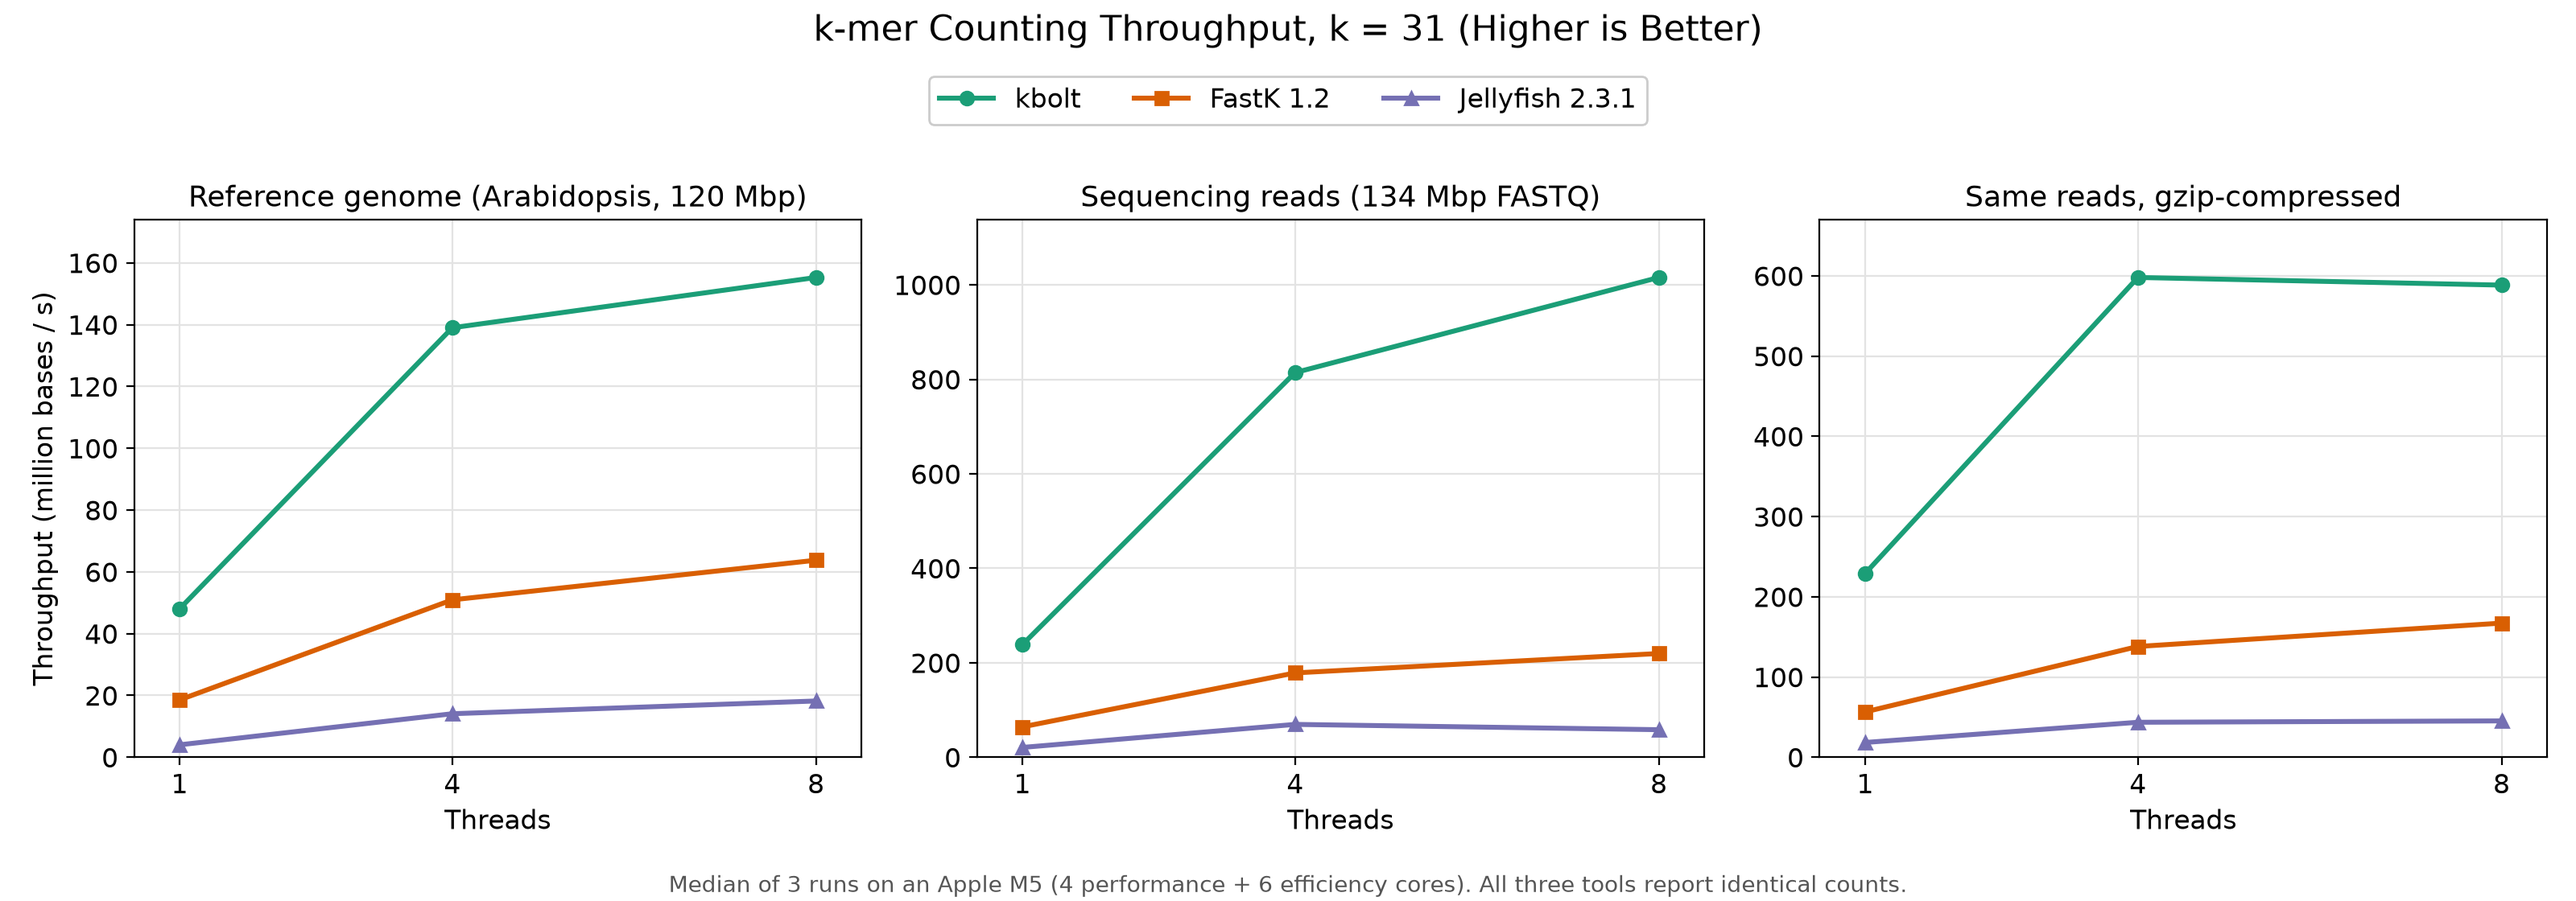
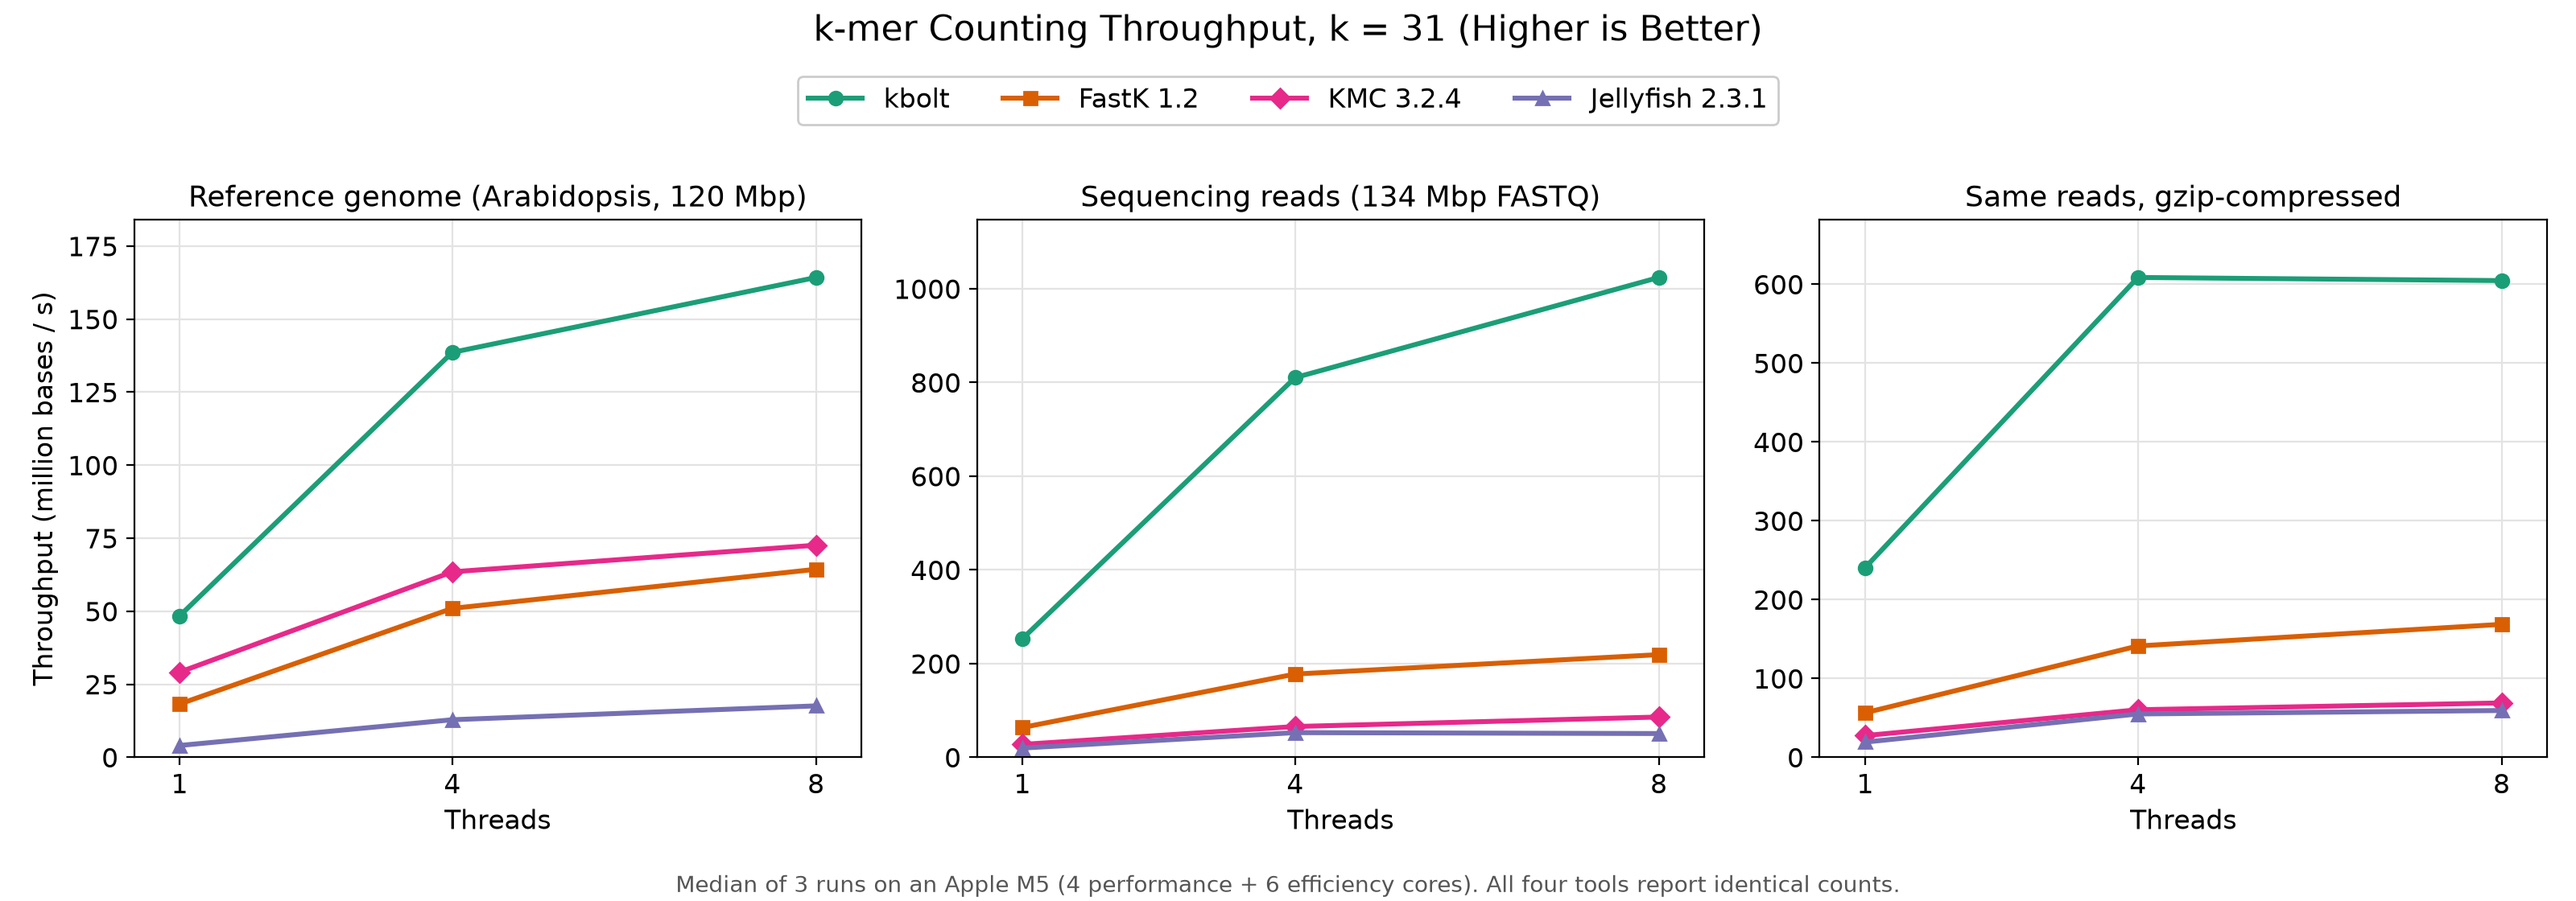
Add KMC 3 to the benchmark comparison
Run KMC 3.2.4 alongside FastK and Jellyfish in benches/compare.py, with
-ci1 and -cs4294967295 so it keeps singletons and exact counts like the
other tools, and draw it on the chart. KMC is not in Homebrew, so the
harness expects a release unpacked under target/compare/tools/kmc (--kmc
overrides the path).

Rerun all four tools and update the README table and chart. KMC's counts
match kbolt's: full sorted diffs for E. coli and the sampled reads, the
complete count histogram for Arabidopsis.

The README notes that these inputs are small and fit in memory, which is
not the case KMC is built for.

diff --git a/benches/compare.py b/benches/compare.py
@@ -1,5 +1,5 @@
 #!/usr/bin/env python3
-"""Compare kbolt with Jellyfish and FastK on identical exact-counting work.
+"""Compare kbolt with Jellyfish, FastK and KMC on identical exact-counting work.
 
 All tools count canonical 31-mers, keep k-mers seen once, and report exact
 counts; their dumped tables were checked against kbolt before timing (full
@@ -16,6 +16,13 @@ Jellyfish needs its hash size up front; it gets twice the true distinct count
 gzip, so it decompresses through its own `-g` generator (gzcat), whose CPU time
 it accumulates. FastK requires .fa/.fq names, so inputs are symlinks under
 target/compare/inputs, created on each run.
+
+KMC is not in Homebrew: unpack a release from
+https://github.com/refresh-bio/KMC/releases into target/compare/tools/kmc (or
+pass --kmc). It runs with -ci1 and -cs4294967295, because by default it drops
+k-mers seen once and caps counts at 255, and with its default 12 GB memory
+limit and disk bins under target/compare/tmp. Its -t is the total thread
+count, while kbolt's -t excludes its input reader, so compare CPU time too.
 """
 
 import argparse
@@ -48,6 +55,9 @@ DATASETS = {
 }
 
 
+TOOLS = ["kbolt", "kbolt-tsv", "jellyfish", "fastk", "kmc"]
+
+
 def digest(path):
     result = hashlib.sha256()
     with Path(path).open("rb") as source:
@@ -64,7 +74,7 @@ def bases(name):
     return SOURCES["sampled.fq"].stat().st_size // 307 * 150
 
 
-def count_command(tool, name, threads, kbolt):
+def count_command(tool, name, threads, kbolt, kmc):
     file, size = DATASETS[name]
     source = str(INPUTS / file)
     if tool == "kbolt":
@@ -83,16 +93,23 @@ def count_command(tool, name, threads, kbolt):
     if tool == "fastk":
         return ["FastK", "-k31", "-t1", f"-T{threads}", f"-P{TMP}", f"-N{OUT / (name + '_fk')}",
                 source]
+    if tool == "kmc":
+        kind = "-fm" if file.endswith(".fa") else "-fq"
+        return [kmc, "-k31", "-ci1", "-cs4294967295", kind, f"-t{threads}", "-hp",
+                source, str(OUT / f"{name}_kmc"), str(TMP)]
     raise ValueError(tool)
 
 
-def dump_command(tool, name, kbolt):
+def dump_command(tool, name, kbolt, kmc):
     if tool == "kbolt":
         return [kbolt, "dump", str(OUT / f"{name}.kbolt")]
     if tool == "jellyfish":
         return ["jellyfish", "dump", "-c", "-t", str(OUT / f"{name}.jf")]
     if tool == "fastk":
         return ["Tabex", "-A", str(OUT / f"{name}_fk.ktab")]
+    if tool == "kmc":
+        tools = str(Path(kmc).with_name("kmc_tools"))
+        return [tools, "-t1", "-hp", "transform", str(OUT / f"{name}_kmc"), "dump", "/dev/null"]
     raise ValueError(tool)
 
 
@@ -127,39 +144,48 @@ def main():
     parser.add_argument("--kbolt", type=Path, default=ROOT / "target/release/kbolt")
     parser.add_argument("--datasets", nargs="+", default=list(DATASETS), choices=list(DATASETS))
     parser.add_argument("--threads", nargs="+", type=positive, default=[1, 4, 8])
-    parser.add_argument("--tools", nargs="+", default=["kbolt", "kbolt-tsv", "jellyfish", "fastk"])
+    parser.add_argument("--kmc", type=Path, default=WORK / "tools/kmc/bin/kmc")
+    parser.add_argument("--tools", nargs="+", default=TOOLS, choices=TOOLS)
     parser.add_argument("--runs", type=positive, default=3)
     parser.add_argument("--warmup", type=int, default=1)
     parser.add_argument("--output", type=Path, default=WORK / "results.json")
     args = parser.parse_args()
     setup()
     kbolt = str(args.kbolt.resolve())
+    kmc = str(args.kmc.resolve())
     versions = {
         "kbolt": {"path": kbolt, "sha256": digest(kbolt),
                   "git": subprocess.check_output(["git", "rev-parse", "HEAD"], cwd=ROOT, text=True).strip()},
-        "jellyfish": subprocess.check_output(["jellyfish", "--version"], text=True).strip(),
-        "fastk": subprocess.check_output(["brew", "list", "--versions", "fastk"], text=True).strip(),
     }
+    if "jellyfish" in args.tools:
+        versions["jellyfish"] = subprocess.check_output(["jellyfish", "--version"], text=True).strip()
+    if "fastk" in args.tools:
+        versions["fastk"] = subprocess.check_output(["brew", "list", "--versions", "fastk"], text=True).strip()
+    if "kmc" in args.tools:
+        # Without arguments KMC prints its usage, starting with the version line.
+        usage = subprocess.run([kmc], capture_output=True, text=True).stdout
+        versions["kmc"] = {"version": usage.splitlines()[0].strip(), "sha256": digest(kmc)}
     report = {
         "timestamp_utc": datetime.now(timezone.utc).isoformat(),
         "platform": platform.platform(),
         "versions": versions,
         "method": "warm cache; fresh processes; rotated rounds; native tables written to "
-                  "target/compare/out; text to /dev/null; Jellyfish -s = 2x distinct",
+                  "target/compare/out; text to /dev/null; Jellyfish -s = 2x distinct; "
+                  "KMC -ci1 -cs4294967295 with default memory and disk bins",
         "count": {},
         "dump": {},
     }
     for name in args.datasets:
         size = bases(name)
         print(f"== {name} ({size:,} bases)", flush=True)
-        cases = [(f"{tool}/t{threads}", count_command(tool, name, threads, kbolt))
+        cases = [(f"{tool}/t{threads}", count_command(tool, name, threads, kbolt, kmc))
                  for threads in args.threads for tool in args.tools]
         results = run_cases(cases, args.runs, args.warmup)
         report["count"][name] = {
             label: {"command": command, "runs": results[label], "summary": summarize(results[label], size)}
             for label, command in cases
         }
-        dumps = [(tool, dump_command(tool, name, kbolt))
+        dumps = [(tool, dump_command(tool, name, kbolt, kmc))
                  for tool in args.tools if tool != "kbolt-tsv"]
         results = run_cases(dumps, args.runs, args.warmup)
         report["dump"][name] = {

diff --git a/benches/plot_compare.py b/benches/plot_compare.py
@@ -17,6 +17,7 @@ ROOT = Path(__file__).resolve().parent.parent
 TOOLS = [
     ("kbolt", "kbolt", "#1b9e77", "o"),
     ("fastk", "FastK 1.2", "#d95f02", "s"),
+    ("kmc", "KMC 3.2.4", "#e7298a", "D"),
     ("jellyfish", "Jellyfish 2.3.1", "#7570b3", "^"),
 ]
 PANELS = [
@@ -57,7 +58,7 @@ def main():
                frameon=True, framealpha=1, edgecolor="#cccccc")
     fig.suptitle("k-mer Counting Throughput, k = 31 (Higher is Better)", fontsize=16, y=0.985)
     fig.text(0.5, 0.01, "Median of 3 runs on an Apple M5 (4 performance + 6 efficiency cores). "
-             "All three tools report identical counts.", ha="center", fontsize=10, color="#555555")
+             "All four tools report identical counts.", ha="center", fontsize=10, color="#555555")
     fig.tight_layout(rect=(0, 0.04, 1, 0.9))
     args.output.parent.mkdir(parents=True, exist_ok=True)
     fig.savefig(args.output, dpi=200, facecolor="white")

diff --git a/README.md b/README.md
@@ -7,23 +7,27 @@ and you can use it from the command line or as a Rust library.
 
 It's built to be fast on an ordinary machine. Everything stays in memory, so it
 works best when the distinct k-mers fit in RAM. Here's how it compares with
-FastK and Jellyfish, two widely used exact counters, on the same inputs:
+FastK, KMC and Jellyfish, three widely used exact counters, on the same inputs:
 
-![k-mer counting throughput of kbolt, FastK and Jellyfish at 1, 4 and 8 threads](docs/benchmark.png)
+![k-mer counting throughput of kbolt, FastK, KMC and Jellyfish at 1, 4 and 8 threads](docs/benchmark.png)
 
 Wall time to count canonical 31-mers (median of 3 runs, Apple M5):
 
-| Workload | Threads | kbolt | FastK | Jellyfish |
-|---|---:|---:|---:|---:|
-| Arabidopsis genome, 120 Mbp | 1 | **2.49 s** | 6.45 s | 29.8 s |
-|  | 8 | **0.77 s** | 1.88 s | 6.57 s |
-| Reads, 134 Mbp FASTQ | 1 | **0.56 s** | 2.09 s | 6.46 s |
-|  | 8 | **0.13 s** | 0.61 s | 2.30 s |
-| Same reads, gzip | 1 | **0.59 s** | 2.37 s | 7.29 s |
-|  | 8 | **0.23 s** | 0.80 s | 2.96 s |
+| Workload | Threads | kbolt | FastK | KMC | Jellyfish |
+|---|---:|---:|---:|---:|---:|
+| Arabidopsis genome, 120 Mbp | 1 | **2.47 s** | 6.57 s | 4.11 s | 29.7 s |
+|  | 8 | **0.73 s** | 1.86 s | 1.65 s | 6.81 s |
+| Reads, 134 Mbp FASTQ | 1 | **0.53 s** | 2.12 s | 4.90 s | 6.85 s |
+|  | 8 | **0.13 s** | 0.61 s | 1.56 s | 2.65 s |
+| Same reads, gzip | 1 | **0.56 s** | 2.38 s | 4.89 s | 6.98 s |
+|  | 8 | **0.22 s** | 0.80 s | 1.95 s | 2.26 s |
 
-kbolt is 2.4–4.6× faster than FastK and 8.5–17× faster than Jellyfish here,
-and all three report identical counts.
+kbolt is 2.6–4.7× faster than FastK, 1.7–12× faster than KMC and 9–20× faster
+than Jellyfish here, and all four report identical counts.
+
+These inputs are small. KMC is built for read sets larger than memory, which
+it splits into bins on disk, and it pays fixed costs here that matter less at
+that scale; kbolt cannot count those inputs at all.
 
 ## Usage
 
@@ -86,5 +90,6 @@ cargo bench
 ```
 
 `python3 benches/compare.py` reruns the comparison (FastK and Jellyfish from
-Homebrew, inputs from `benches/generate_inputs.py`). Redraw the chart with
+Homebrew, KMC from its GitHub releases, inputs from
+`benches/generate_inputs.py`). Redraw the chart with
 `uv run --no-project --with matplotlib python benches/plot_compare.py`.
